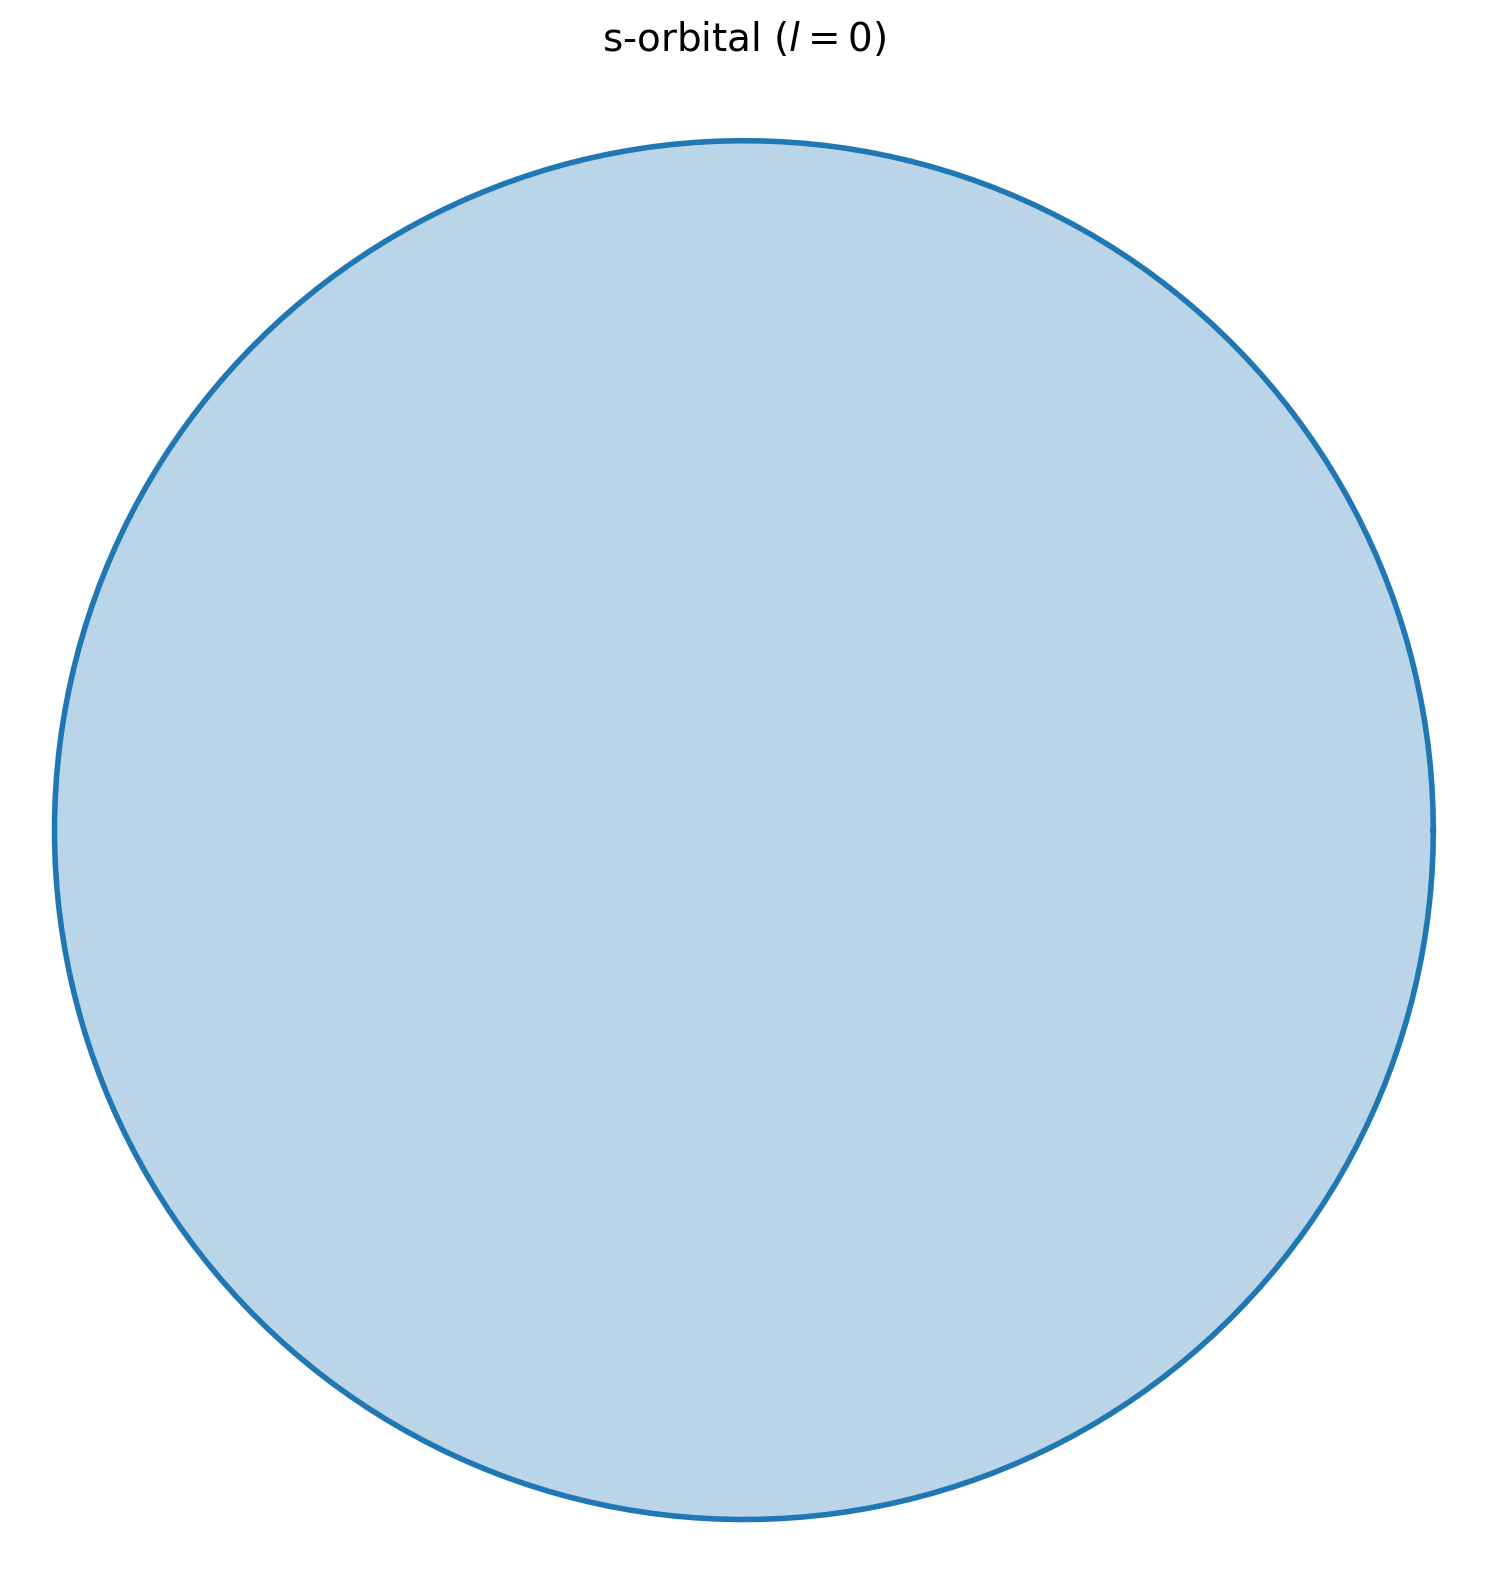
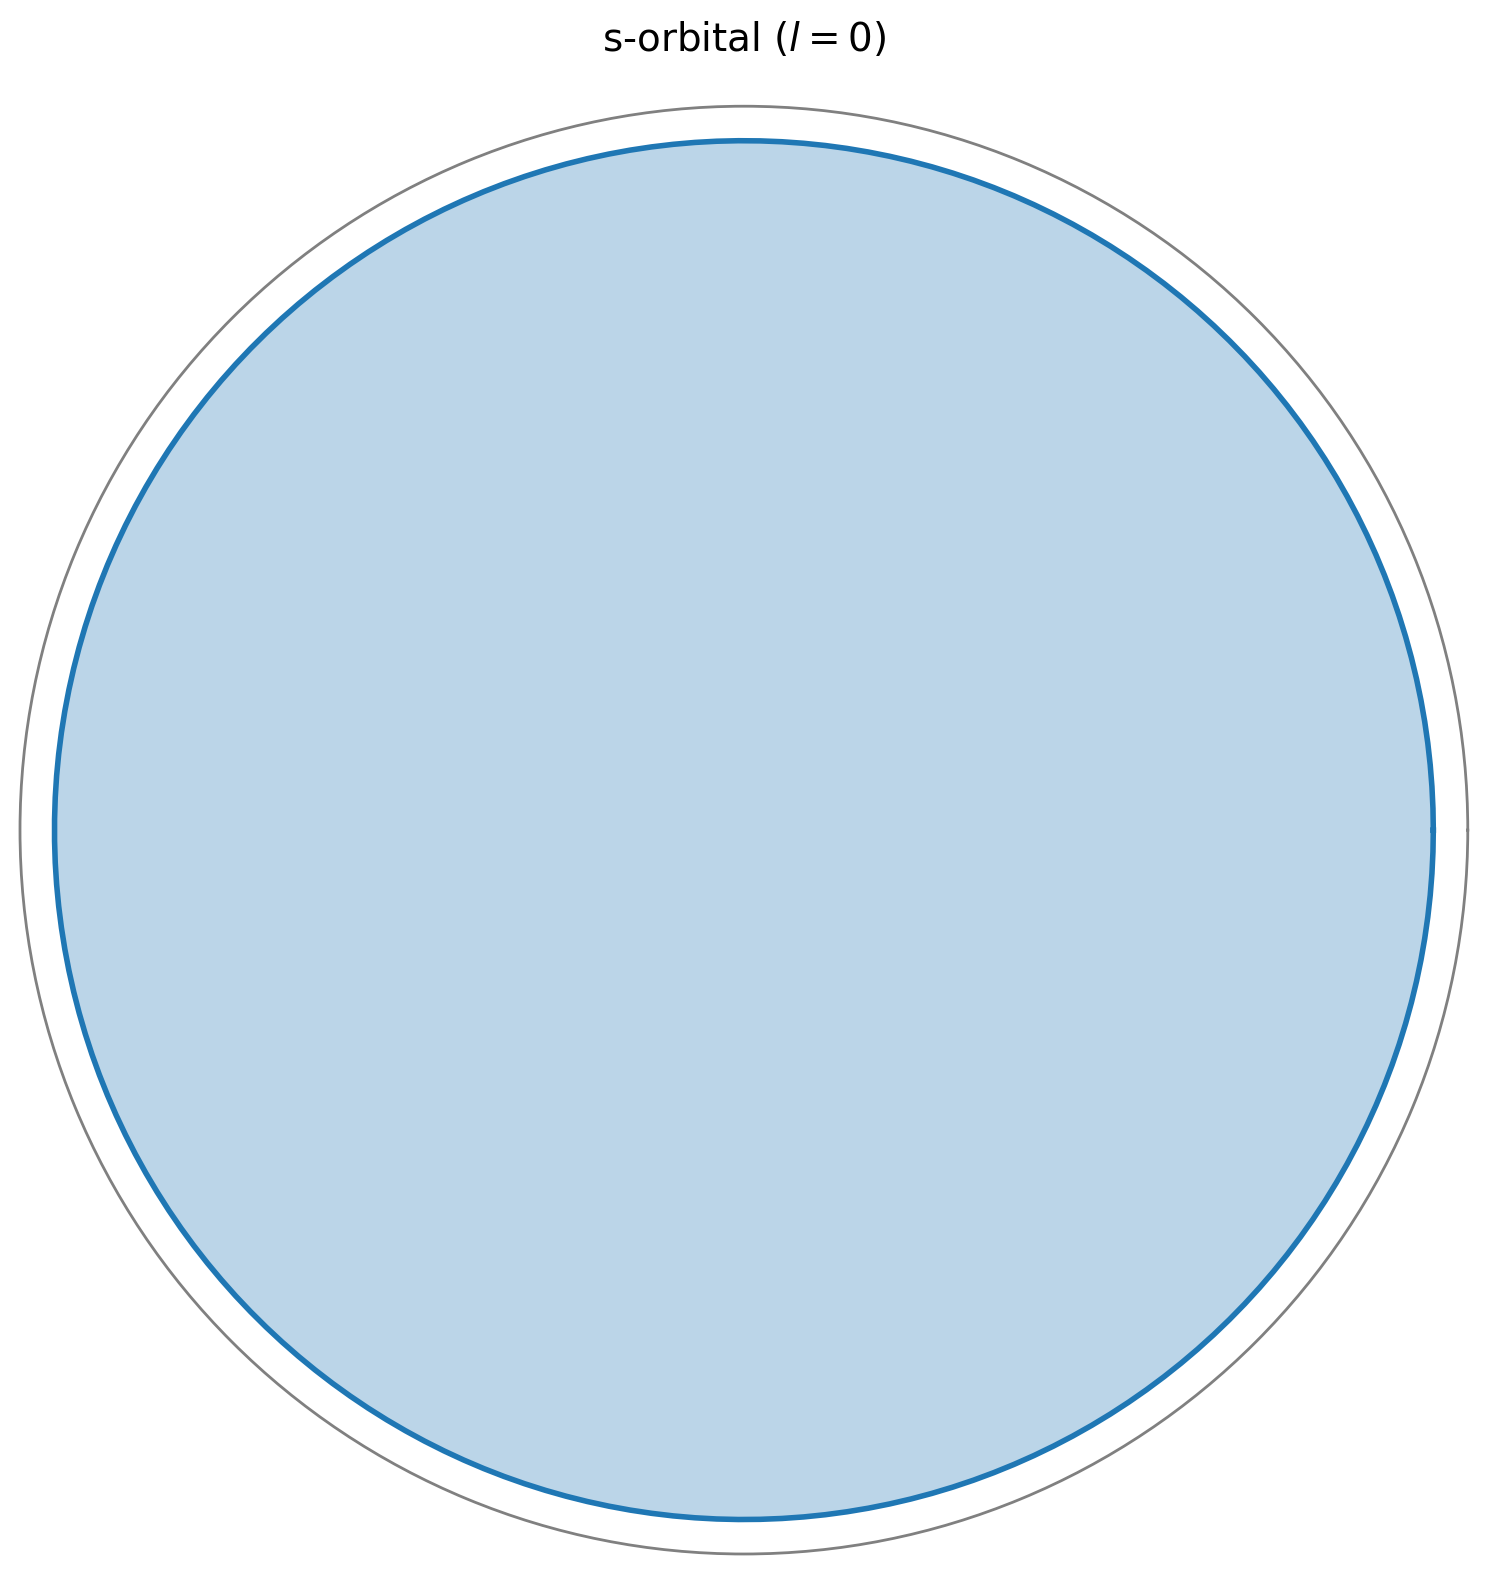
fix(angular-momentum): use Cartesian coords for SH plots, remove axis lines
- Switch from polar to Cartesian coordinates for cleaner rendering
- Remove all axis lines, keep only outer circle reference
- Fix coordinate mapping: theta=0 -> z-axis (up), theta=90 -> x-axis (right)

diff --git a/utils/generate_spherical_harmonics.py b/utils/generate_spherical_harmonics.py
@@ -95,11 +95,12 @@ def plot_spherical_harmonic_2d(l, m, filename, title=None):
     ax.fill_between(theta, 0, Y_vals, alpha=0.3)
     ax.plot(theta, Y_vals, linewidth=2, label=f'$|Y_{{{l}}}^{{{m}}}|^2$')
     
-    # Turn off all ticks and frame
+    # Only show outer circle frame, no axis lines
     ax.set_rticks([])
-    ax.set_thetagrids([])  # No theta grids
-    ax.patch.set_visible(False)
-    ax.spines['polar'].set_visible(False)
+    ax.set_thetagrids([])
+    ax.spines['polar'].set_visible(True)
+    ax.spines['polar'].set_linewidth(1)
+    ax.spines['polar'].set_edgecolor('gray')
     
     if title:
         ax.set_title(title, fontsize=14, pad=20)
@@ -116,11 +117,10 @@ def plot_spherical_harmonic_2d(l, m, filename, title=None):
 
 
 def plot_all_spherical_harmonics():
-    """Generate comparison figure for s, p, d orbitals."""
+    """Generate comparison figure for s, p, d orbitals using Cartesian coords."""
     setup_style()
     
-    fig, axes = plt.subplots(2, 3, figsize=(14, 9), 
-                            subplot_kw=dict(projection='polar'))
+    fig, axes = plt.subplots(2, 3, figsize=(14, 9))
     axes = axes.flatten()
     
     orbitals = [
@@ -136,7 +136,7 @@ def plot_all_spherical_harmonics():
     
     for idx, (l, m, label) in enumerate(orbitals):
         ax = axes[idx]
-        theta = np.linspace(0, 2*np.pi, 200)
+        theta = np.linspace(0, 2*np.pi, 400)
         phi = 0  # Fix phi=0 for 2D projection
         
         Y_vals = []
@@ -145,29 +145,24 @@ def plot_all_spherical_harmonics():
             Y_vals.append(np.abs(Y)**2)
         Y_vals = np.array(Y_vals)
         
-        # Draw the z-axis (0° line) first with low zorder so it appears behind fill
+        # Convert to Cartesian coordinates
+        x = Y_vals * np.sin(theta)  # x = r * sin(theta) in spherical
+        y = Y_vals * np.cos(theta)  # z = r * cos(theta) in spherical
+        
+        # Fill and outline
+        ax.fill(x, y, alpha=0.3, color='blue')
+        ax.plot(x, y, linewidth=2, color='darkblue')
+        
+        # Draw outer circle reference
         max_r = Y_vals.max()
-        ax.plot([0, 0], [0, max_r], color='gray', linewidth=0.8, alpha=0.7, zorder=1)
+        circle_theta = np.linspace(0, 2*np.pi, 100)
+        ax.plot(max_r * np.sin(circle_theta), max_r * np.cos(circle_theta), 
+                'k-', linewidth=0.8, alpha=0.5)
         
-        # Draw x-axis (90° line) as well
-        ax.plot([np.pi/2, np.pi/2], [0, max_r], color='gray', linewidth=0.8, alpha=0.7, zorder=1)
-        
-        # Fill and outline with higher zorder
-        ax.fill_between(theta, 0, Y_vals, alpha=0.3, color='blue', zorder=2)
-        ax.plot(theta, Y_vals, linewidth=2, color='darkblue', zorder=3)
-        
-        # Turn off all ticks and frame
-        ax.set_rticks([])
-        ax.set_thetagrids([])  # No theta grids
-        ax.patch.set_visible(False)
-        ax.spines['polar'].set_visible(False)
-        # Manually add labels without lines
-        max_r = Y_vals.max() * 1.05
-        label_positions = [(0, max_r, 'z'), (np.pi/2, max_r, 'x'), 
-                          (np.pi, max_r, '-z'), (3*np.pi/2, max_r, '-x')]
-        for angle, r, text in label_positions:
-            ax.text(angle, r, text, ha='center', va='center', fontsize=10)
-        ax.set_title(label, fontsize=12, pad=15)
+        # Set equal aspect and remove axes
+        ax.set_aspect('equal')
+        ax.axis('off')
+        ax.set_title(label, fontsize=12, pad=10)
     
     plt.tight_layout()
     filepath = os.path.join(OUTPUT_DIR, 'spherical_harmonics_overview.png')
